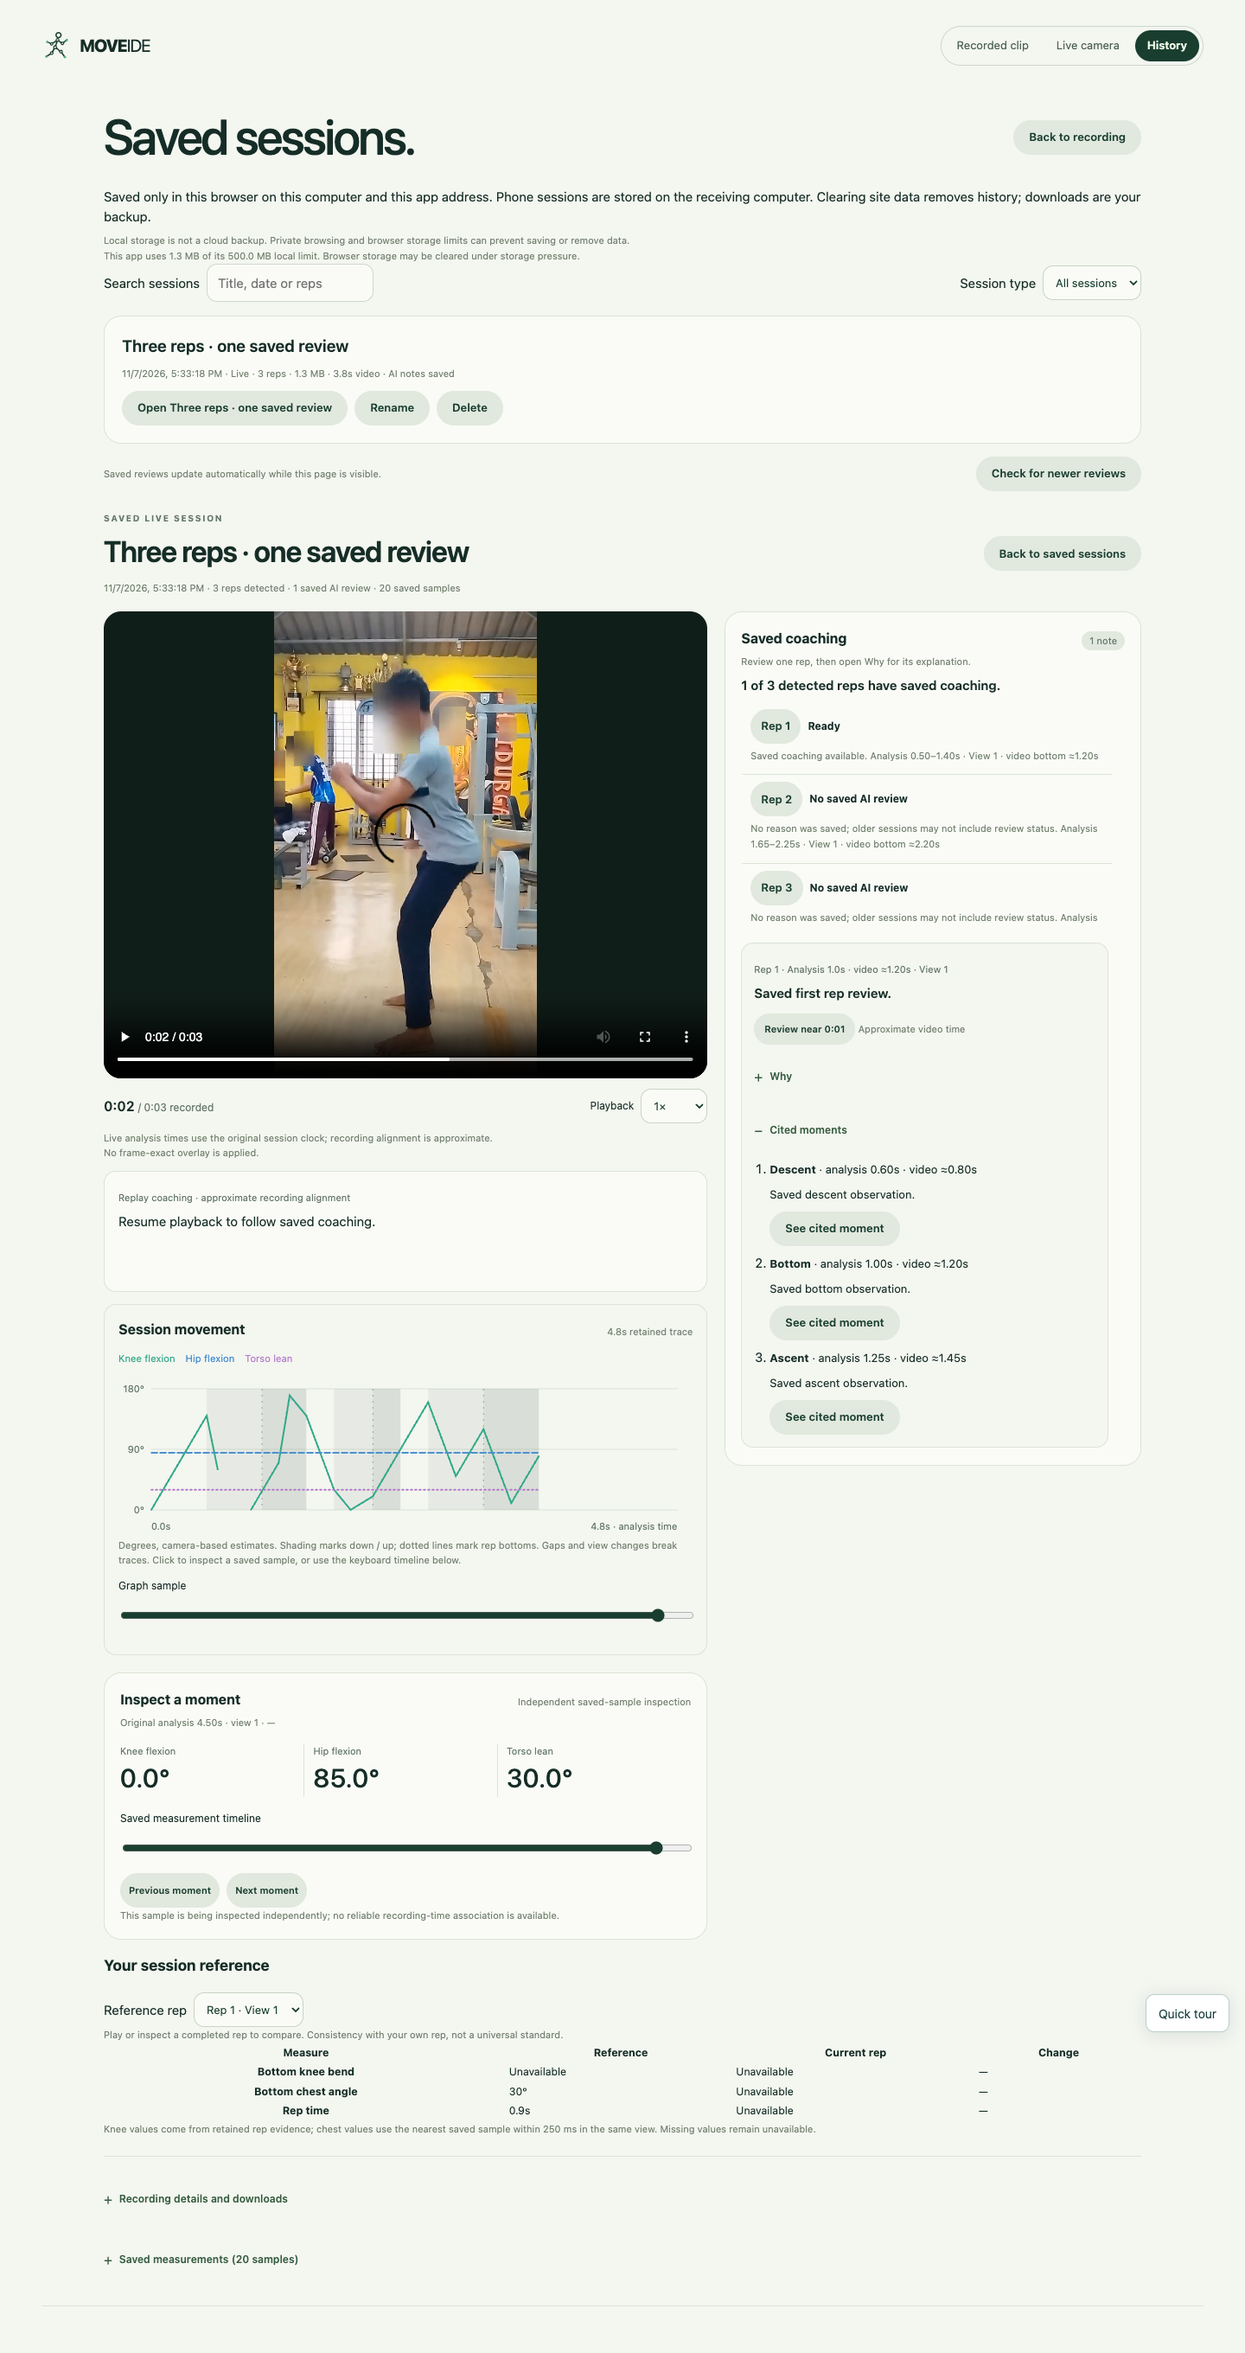
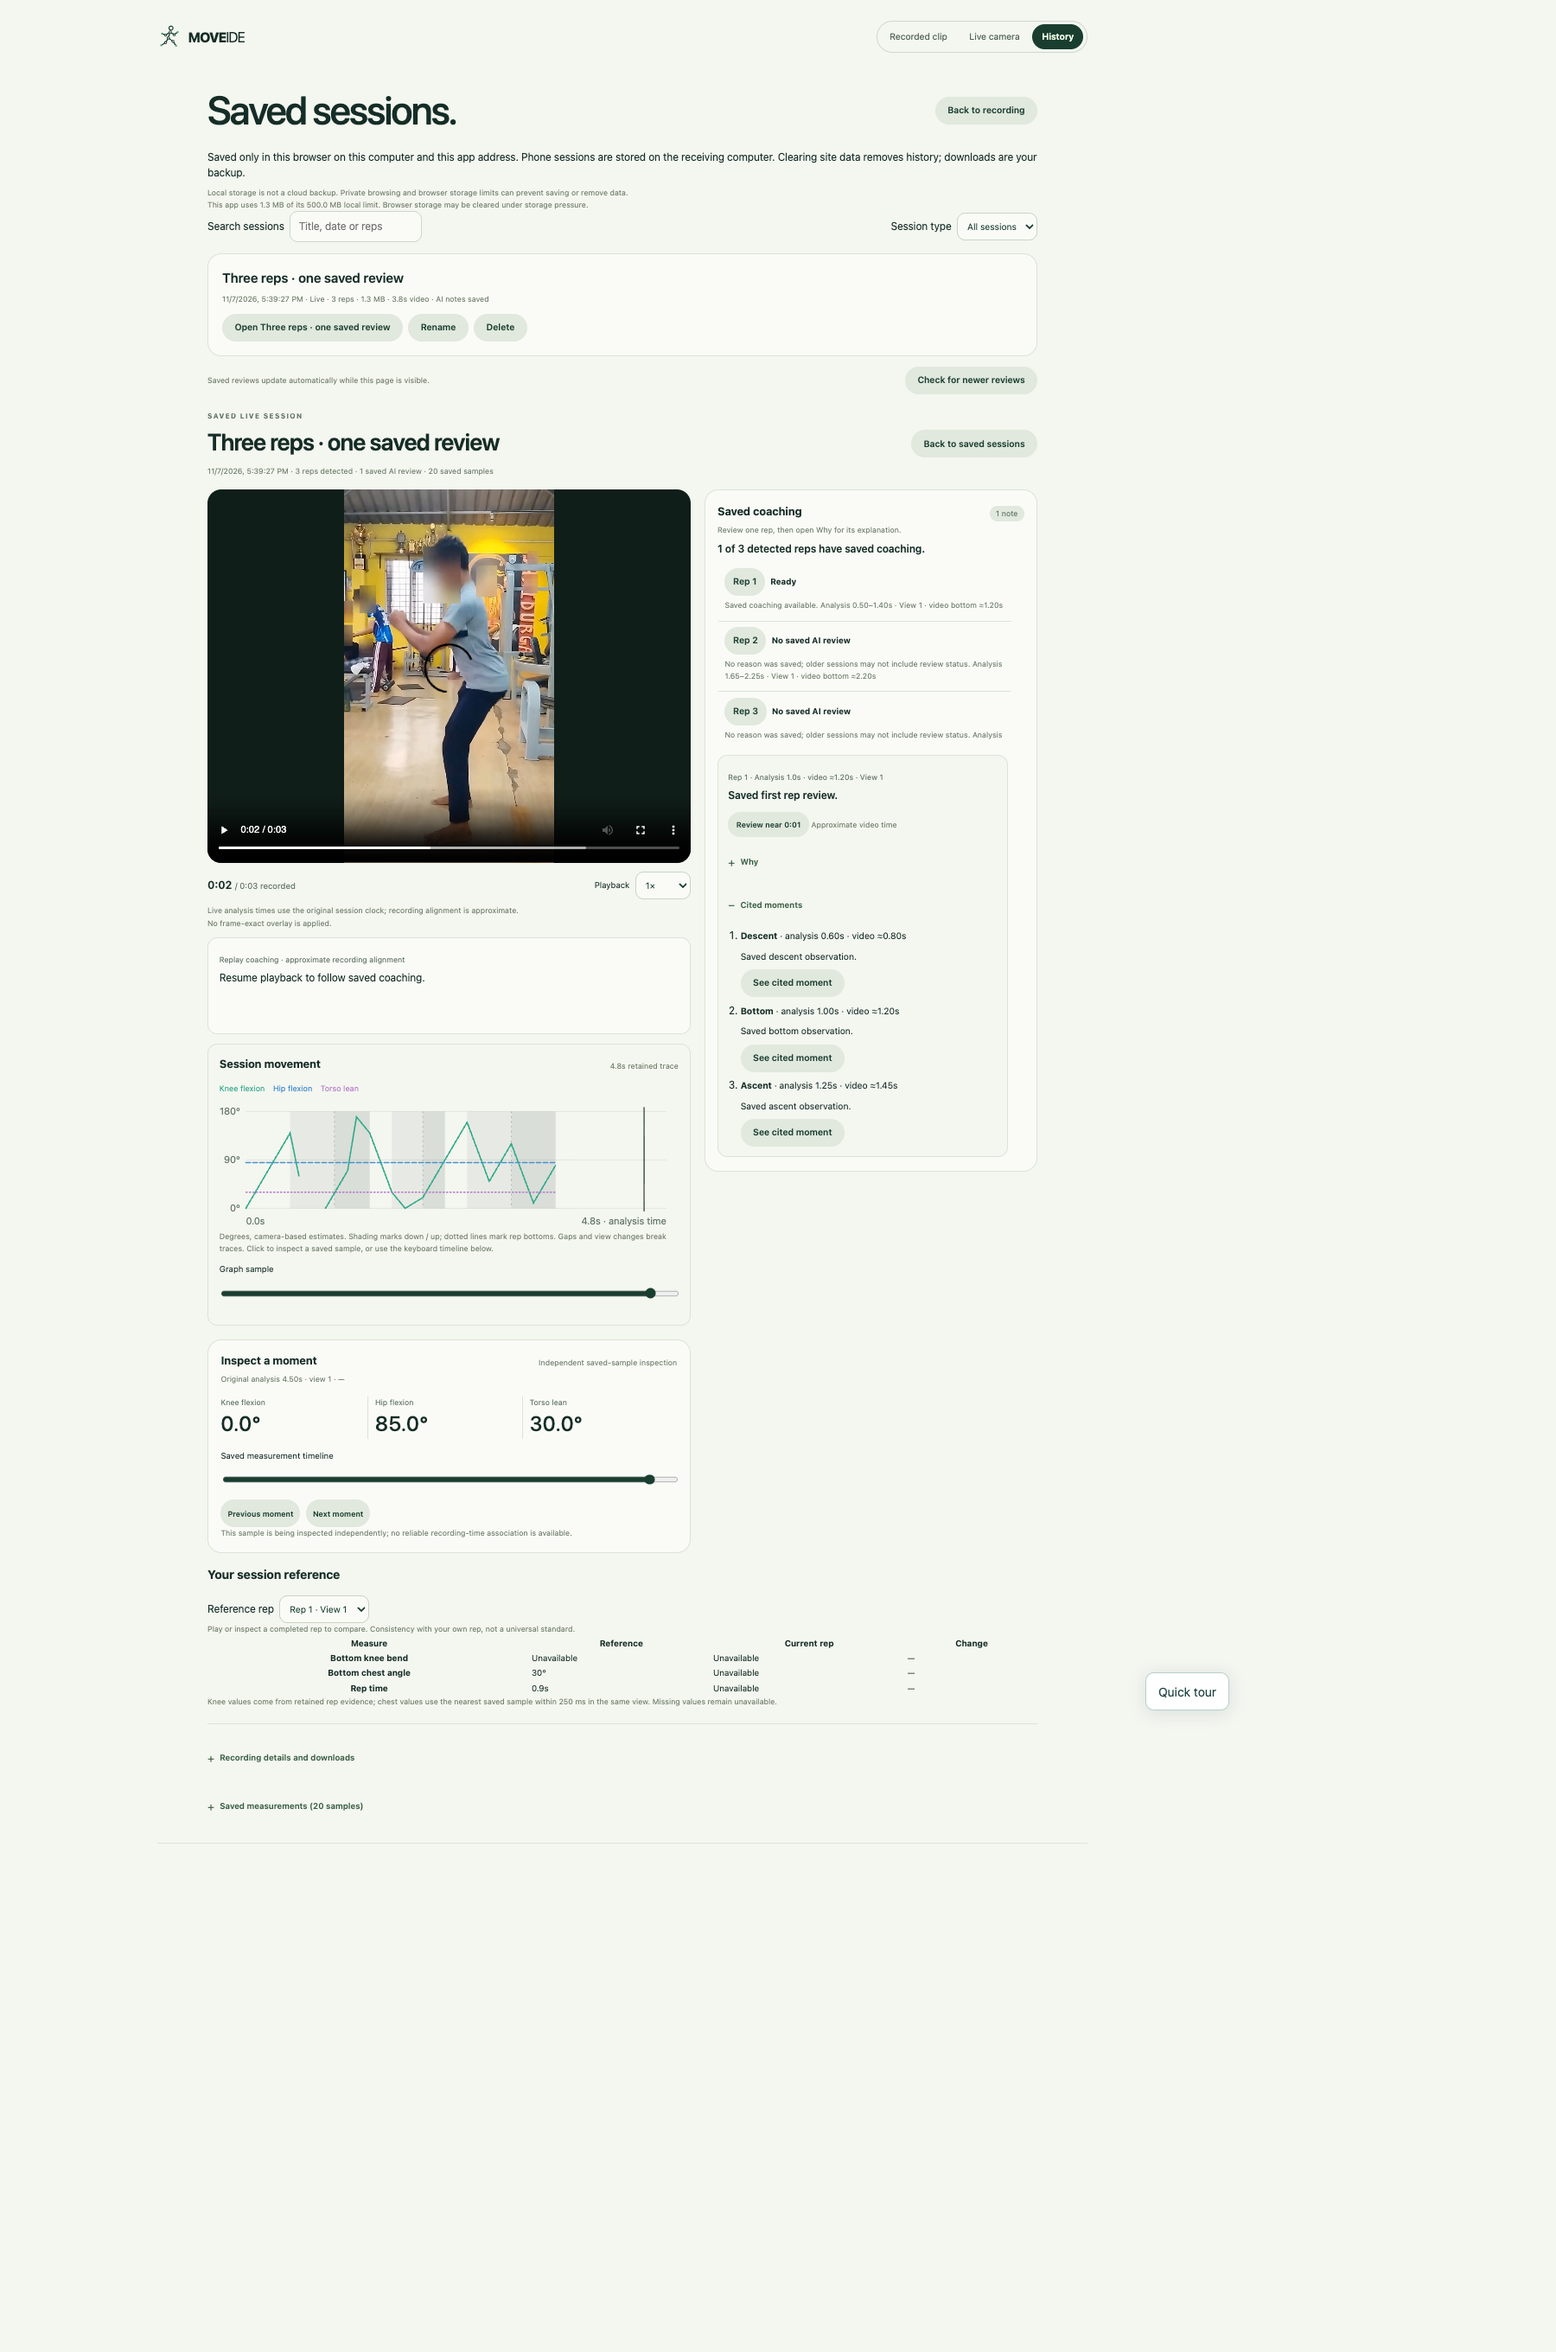
Add pace-aligned rep references and refine judge walkthrough

diff --git a/src/index.css b/src/index.css
@@ -81,5 +81,7 @@
 .history .saved-trace [data-series="1"] path { stroke-dasharray:7 3; }
 .history .saved-trace [data-series="2"] { color:#b47bcb; }
 .history .saved-trace [data-series="2"] path { stroke-dasharray:2 3; }
-.history .saved-trace-cursor { stroke:var(--text); stroke-width:1.5; }
+.history .saved-trace-cursor { stroke:var(--fg); stroke-width:1.5; }
 .history .saved-trace-legend { display:flex; gap:12px; flex-wrap:wrap; font-size:.75rem; margin:8px 0; }
+
+@media(min-width:1001px){.history .saved-trace svg text{font-size:14px}}

diff --git a/docs/frontend-design-amendments.md b/docs/frontend-design-amendments.md
@@ -176,3 +176,14 @@ Local graphs and references must remain useful with ChatGPT disconnected. Show k
 Before valid measurements arrive, use a compact instruction instead of an empty chart suggesting a measured 0–1 second interval. Default to the knee trace; expose hip/chest traces as optional controls. Source-bound completed rep events can shade descent and return around their bottom marker and summarize measured knee depth plus down/return/total time. These intervals come from detected rep boundaries, not an invented ideal curve. Label the rolling 30-second scope and keep full-session history distinct. First-rep comparisons and per-rep detail expand on demand so the active graph stays readable.
 
 Acceptance includes three detected reps with one accepted note, reused report-local rep IDs, a delayed second review arriving during playback without resetting the video, a stopped session whose queue drains into the same saved record, and an interrupted queue marked unconfirmed rather than completed. Test note highlighting before/during/after its rep interval, mapping offsets, missing mapping, sparse-sample gaps, view boundaries and recording-prefix bounds. UI and controlled fixtures do not establish anatomical accuracy or a physical-phone timing guarantee.
+
+
+### Personal reference curve and visual tolerance
+
+The requested comparison is a **curved personal reference**, not only a flat knee-angle target. In an expandable live-chart panel, compare the latest completed rep with the first completed compatible rep from this session/view. Align each descent and ascent separately: start = 0%, bottom = 50%, end = 100%. Keep angle values in degrees; do not normalize vertical amplitude or hide a shallower/deeper rep. Actual down/return/total durations remain visible separately because this horizontal alignment removes speed differences.
+
+Show the retained reference curve, the latest rep curve, and a user-selectable **±5°, ±10° or ±15° visual tolerance** around the reference. Label the band “Visual difference from your reference”, not an ideal zone, a model error bound, confidence interval, or validation of good form. An angle outside this band is a measured difference from that reference; it is not automatically a fault or an AI correction. Keep the separate 110° practice target distinct. No external ideal curve or fabricated data fills the reference.
+
+Require completed source-bound rep intervals and compatible view epoch, model and analysis protocol. Preserve gaps/unavailable samples, reject non-finite values, and avoid extrapolation outside either rep. Do not connect across tracking loss, discontinuous source time or a view change. Reset or withhold the reference when those conditions change; name the reference rep and disclose unavailable coverage. A phase percentage is not a recording timestamp and cannot be used directly to seek the source video. Keep the panel optional and its degree/phase labels readable on mobile, with keyboard-operable tolerance controls and distinguishable line styles.
+
+Acceptance for this increment: identical traces overlap; a known degree offset remains visible after phase alignment; different rep speeds align at the three anchors while their real durations remain different; missing spans remain missing; incompatible views/protocols cannot compare; changing the visual tolerance does not alter measurements, rep counts, coaching requests or saved evidence. The helper and rendered-panel test evidence must be recorded before this increment is marked verified. This contract describes the requested implementation, not independent measurement accuracy.

diff --git a/_bmad-output/specs/epics.md b/_bmad-output/specs/epics.md
@@ -337,3 +337,14 @@ These user-directed corrections supersede busy-rep skipping and live Stop aborti
 - **PHONE-ACCEPT — Physical retest:** QR connection works according to the user; actual previous run recorded128samples and3reps but no AI notes. Fixed deterministic slow-cadence guard starvation; that reproduction is not proof of the original run's sole cause. **Await final physical replay/overlay/queued-coaching test after deployment.**
 
 Current queue lifetime is the originating browser page. History opens separately while it drains; closing the page interrupts pending work. Durable server-side/resumable jobs are not implemented and must not be implied.
+
+## Final demo amendment · rep review, references and onboarding
+
+These criteria supersede an uncited live text dump or a single disappearing coaching card. No movement-accuracy claim follows from UI acceptance.
+
+- **DEMO-REPLAY · Implemented, final build verification pending.** Saved live replay shows all detected reps separately from reviewed reps, distinct queued/failed/legacy-unavailable states, and stable global rep numbering. Playback follows each rep interval and validated phase citations; video, full retained metric graph and source evidence seek together through the disclosed approximate recording map. Notes stay stacked; missing reviews are not fabricated. Replaying never invokes inference.
+- **DEMO-REFERENCE · Implemented, final build verification pending.** Live measurements have a rolling timeline and real descent/bottom/return spans. Completed reps compare against the first eligible personal reference after phase alignment (start0%, bottom50%, finish100%). Preserve angle amplitude and real durations. Adjustable±5/10/15° shading is a visual tolerance, not calibrated error, medical safety, or a universal good-squat zone. Reset incompatible views and preserve missing-data gaps. No predicted future phase is presented as measured live progress.
+- **DEMO-COACH · Implemented, final provider verification pending.** The bounded queue sends the actual disclosed practice goal with exact phase images. Observed/Meaning/Next rep explanations cite the packet and distinguish observed cycle completion from depth/quality. A failed review does not drop subsequent reps; Stop drains, new Start cancels, and closing the origin page interrupts queued work.
+- **DEMO-ONBOARD · Implemented, final build verification pending.** GitHub download/clone leads to automatic pinned-asset setup, optional eligible ChatGPT sign-in and one Start. A short optional anchored tour uses real controls, keyboard/Escape/focus return, mobile layout and reduced obstruction. Using the app dismisses the invitation; no tour step starts camera or inference. Judge packet and AI setup prompts document local storage and phone requirements.
+
+Evidence and final runtime IDs are maintained in [tracker.md](../../tracker.md), [the Seldon ledger](../../qa/seldon-ledger.md), and [judge instructions](../../docs/JUDGES-START-HERE.md).

diff --git a/qa/PRODUCT-CONTEXT.md b/qa/PRODUCT-CONTEXT.md
@@ -27,6 +27,10 @@ Queued reviews run one at a time with at least eight seconds between dispatches,
 
 Graph acceptance is independent of AI availability: readable degree/time axes on laptop and narrow screens, knee/hip/chest estimates, no zeroes substituted for missing measurements, and breaks at view changes. Reference changes describe consistency with the person's own rep, not correctness. The illustrative 110° practice target is not an ideal angle for everyone. Distinguish exact rep-bottom evidence from a nearby archived sample used for a labeled approximate comparison.
 
+The curved-reference increment compares completed reps against the first compatible personal rep. Its horizontal phase axis uses start 0%, bottom 50%, end 100%, while preserving measured angle amplitude in degrees. Actual phase durations remain separate; the normalized horizontal axis does not prove equal tempo. An adjustable ±5°/±10°/±15° band is a visual difference aid, not a validated measurement-error bound, confidence interval or universally good technique range. It must not automatically generate a posture fault. The flat 110° practice target remains a separate optional goal.
+
+Reference acceptance requires compatible view/model/protocol, source-bound completed intervals, finite measurements, preserved tracking gaps and no extrapolated missing curve. Verify identical curves, known degree differences, unequal timing, missing spans, view changes, accessible controls and readable mobile axes. Changes to reference/tolerance must not initiate AI or rewrite recorded measurements. Until linked helper and rendered-panel evidence exists, this is an acceptance requirement rather than a passed gate.
+
 ## Truth and scope
 33 landmarks and estimated world coordinates are not calibrated 3D truth. Recorded metrics use a supported side view. Live front/oblique/orbit support is experimental and gates unsupported measurements. Full-body visibility alone does not establish accuracy. There is no clinical correctness or universal ideal-angle claim. OpenCap import exists; native GPU inference is user-deferred.
 

diff --git a/docs/JUDGES-START-HERE.md b/docs/JUDGES-START-HERE.md
@@ -35,6 +35,8 @@ Allow the asynchronous coach time to return. An unavailable account or model lea
 | **Live camera → Start coached squat** | Grant camera permission, stand side-on with your whole body visible, and do a few reps. Local angles/graphs appear without AI. Completed reps queue for coaching when connected. |
 | **Stop → Open saved session / History** | Camera capture ends, replay and measurements remain, and queued reviews continue in the original live tab. See detected reps separately from saved AI reviews. Reopening or seeking never requests another AI analysis. |
 
+In the live graph, **Compare with your first rep** provides a personal reference. The curved comparison aligns the down and return phases at start/bottom/end while keeping knee angles in degrees; compare actual phase durations separately. The selectable ±5°/±10°/±15° tolerance is a visual aid for differences from your own reference, not an error guarantee or a “good form” zone. Missing tracking stays missing, and incompatible views cannot establish a comparison. This increment needs its linked local and final-build checks before a submission GO; consult the tracker for that status.
+
 For live sessions, keep the original live tab open until queued reviews finish. The queue allows up to six reviews, one at a time, with at least eight seconds between dispatches. Starting another session cancels unfinished reviews from the previous one; closing the tab interrupts the queue. Older sessions do not gain invented or retroactive reviews.
 
 History is local to this browser profile and **this exact app address**. ChatGPT login does not sync recordings. Phone recordings save on the receiving computer. Live replay alignment is approximate, and exact source JPEG evidence is shown separately. Download the original video and measurements for a backup. No angles are fabricated when tracking is unavailable.
